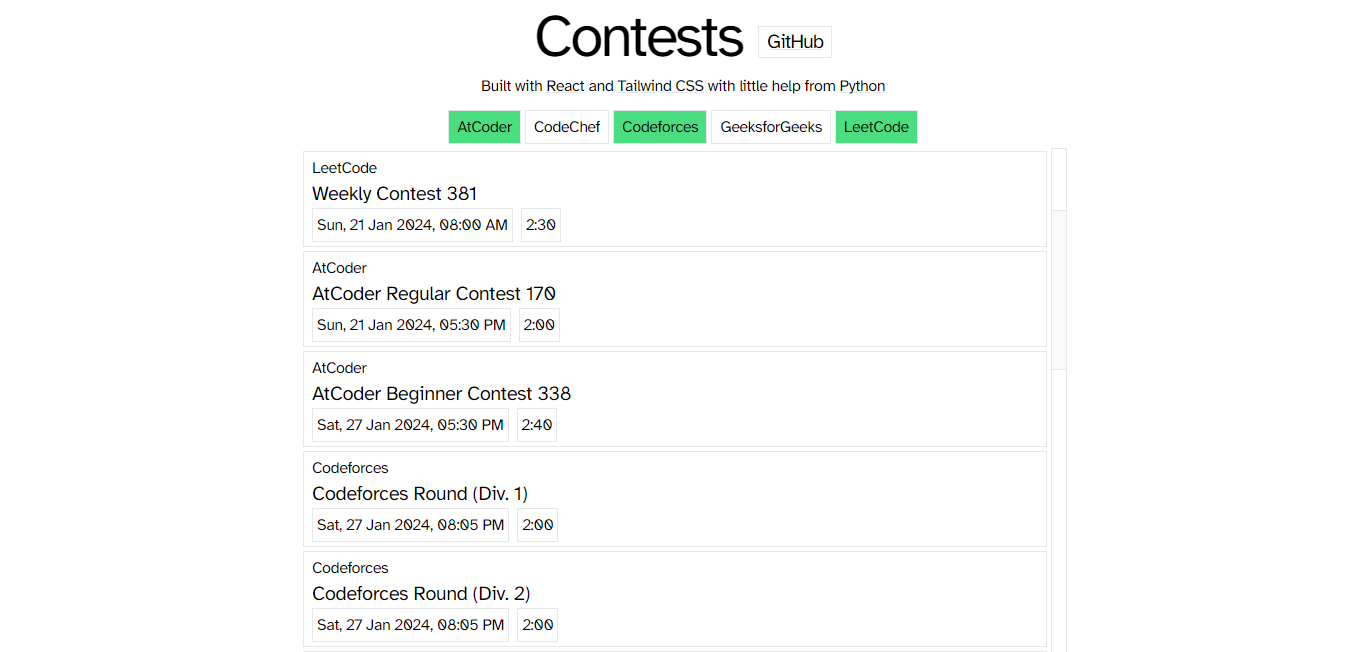
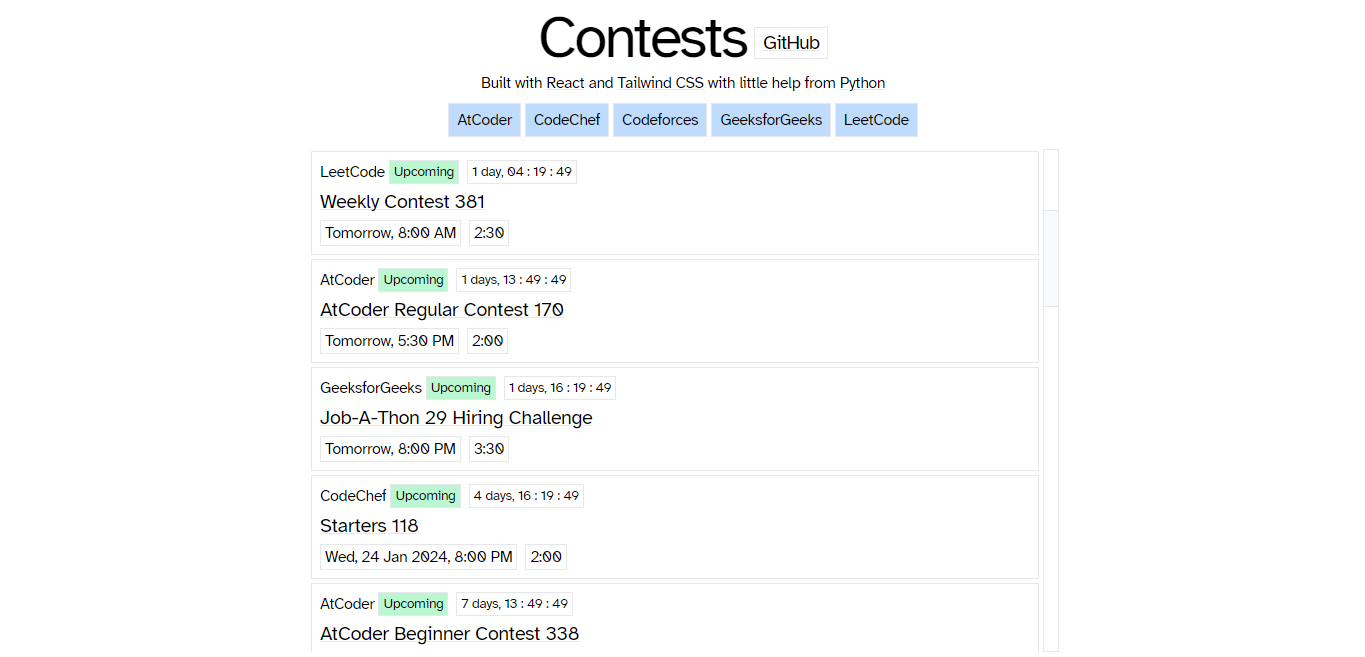
added status (upcoming/ongoing) and countdown timer, minor ui updates

diff --git a/app/src/App.jsx b/app/src/App.jsx
@@ -3,9 +3,18 @@ import { useEffect, useState } from 'react'
 
 function formatDate(isoFormatStr) {
   const date = new Date(isoFormatStr)
-  const options = {
-    hour12: true, weekday: "short", year: "numeric", month: "short", day: "numeric", hour: "2-digit", minute: "2-digit"
+  let options = {
+    hour12: true, hour: "numeric", minute: "2-digit"
   }
+  const today = new Date()
+  if (date.toDateString() === today.toDateString()) {
+    return `Today, ${date.toLocaleTimeString(navigator.language, options).replace('am', 'AM').replace('pm', 'PM')}`
+  }
+  const tomorrow = new Date(today.getFullYear(), today.getMonth(), today.getDate() + 1)
+  if (date.toDateString() === tomorrow.toDateString()) {
+    return `Tomorrow, ${date.toLocaleTimeString(navigator.language, options).replace('am', 'AM').replace('pm', 'PM')}`
+  }
+  options = { ...options, weekday: "short", year: "numeric", month: "short", day: "numeric" }
   return date.toLocaleString(navigator.language, options).replace('am', 'AM').replace('pm', 'PM')
 }
 
@@ -14,21 +23,64 @@ function formatDuration(durationSeconds) {
   return `${(minutes / 60).toFixed()}:${(minutes % 60).toString().padStart(2, "0")}`
 }
 
+function formatCountdown(countdownSeconds) {
+  const days = countdownSeconds / (3600 * 24) 
+  countdownSeconds = countdownSeconds % (3600 * 24)
+  const hours = countdownSeconds / 3600
+  countdownSeconds = countdownSeconds % 3600
+  const minutes = countdownSeconds / 60
+  const seconds = countdownSeconds % 60
+
+  return `${days >= 1 ? Math.floor(days) : ''}${days >= 1 ? days.toFixed() == 1 ? ' day, ' : ' days, ': ''}${Math.floor(hours).toString().padStart(2, '0')} : ${Math.floor(minutes).toString().padStart(2, '0')} : ${Math.floor(seconds).toString().padStart(2, '0')}`
+}
+
 function compareDates(first, second) {
   const firstDate = new Date(first)
   const secondDate = new Date(second)
-  console.log(firstDate, secondDate, firstDate - secondDate)
   return firstDate - secondDate
 }
 
 function Card({ platform, title, url, startTime, duration, isVisible }) {
+
+  const [countdownSeconds, setCountdownSeconds] = useState(0)
+  const [status, setStatus] = useState("Upcoming")
+
+  useEffect(() => {
+    const contestStartTime = new Date(startTime)
+    const now = new Date()
+    if (contestStartTime <= now) {
+      setStatus("Ongoing")
+      contestStartTime.setSeconds(contestStartTime.getSeconds() + duration)
+      setCountdownSeconds(((contestStartTime - now) / 1000).toFixed())
+    } else {
+      setCountdownSeconds(((contestStartTime - now) / 1000).toFixed())
+    }
+    const countdownTimer = setInterval(() => {
+      const contestStartTime = new Date(startTime)
+      const now = new Date()
+      if (contestStartTime <= now) {
+        setStatus("Ongoing")
+      } else {
+        setStatus("Upcoming")
+      }
+      setCountdownSeconds(prevCountdownSeconds => prevCountdownSeconds - 1)
+    }, 1000)
+    return () => clearInterval(countdownTimer)
+  }, [])
+  
   return (
-    <div className={`${isVisible ? 'flex' : 'hidden'} flex-col border px-2 py-1 w-full hover:border-gray-950`}>
-      <div>{platform}</div>
-      <div className="text-xl text-wrap"><a href={url}>{title}</a></div>
-      <div className="flex gap-2">
-        <div className="border p-1">{formatDate(startTime)}</div>
-        <div className="border p-1">{formatDuration(duration)}</div>
+    <div className={`${isVisible ? 'flex' : 'hidden'} flex-col border p-2 gap-1 w-full hover:border-gray-950`}>
+      <div className="flex gap-1 flex-wrap">
+        <div>{platform}</div>
+        <div className="flex gap-2">
+          <div className={`inline-flex items-center text-sm border px-1 ${status == "Upcoming" ? "bg-green-200" : "bg-red-300"}`}>{status}</div>
+          <div className="inline-flex items-center text-sm border px-1">{formatCountdown(countdownSeconds)}</div>
+        </div>
+      </div>
+      <div className="text-xl text-wrap underline decoration-1 decoration-gray-200 hover:decoration-gray-950"><a href={url}>{title}</a></div>
+      <div className="flex gap-2 flex-wrap">
+        <div className="border px-1">{formatDate(startTime)}</div>
+        <div className="border px-1">{formatDuration(duration)}</div>
       </div>
     </div>
   )
@@ -56,25 +108,28 @@ function App() {
   }, [])
 
   return (
-    <div className="tracking-tight font-['Atkinson_Hyperlegible'] flex flex-col items-center h-screen">
-      <div className="flex p-2 items-end gap-4">
+    <div className="tracking-tight font-['Atkinson_Hyperlegible'] flex flex-col items-center h-screen px-1 py-2">
+      <div className="flex px-2 items-end justify-center flex-wrap gap-2">
         <div className="text-6xl tracking-tighter">Contests</div>
         <div className="border p-2 mb-2 h-8 inline-flex items-center text-xl tracking-tighter decoration-1 decoration-gray-200 underline hover:decoration-gray-950 hover:border-gray-950">
           <a href="https://github.com/er-knight/contests">GitHub</a>
         </div>
       </div>
-      <div className="p-2 pt-0 text-center">Built with 
-        <a href="https://github.com/er-knight/contests/tree/main/app/src/App.jsx" className="pl-1 decoration-1 decoration-gray-200 underline hover:decoration-gray-950">React</a> and 
-        <a href="https://github.com/er-knight/contests/tree/main/app/src/App.jsx" className="pl-1 decoration-1 decoration-gray-200 underline hover:decoration-gray-950">Tailwind CSS</a> with little help from 
-        <a href="https://github.com/er-knight/contests/blob/main/update-contests.py" className="pl-1 decoration-1 decoration-gray-200 underline hover:decoration-gray-950">Python</a>
+      <div className="p-1 text-center">
+        <span>Built with </span>
+        <a href="https://github.com/er-knight/contests/tree/main/app/src/App.jsx" className="decoration-1 decoration-gray-200 underline hover:decoration-gray-950">React</a>
+        <span> and </span>
+        <a href="https://github.com/er-knight/contests/tree/main/app/src/App.jsx" className="decoration-1 decoration-gray-200 underline hover:decoration-gray-950">Tailwind CSS</a>
+        <span> with little help from </span>
+        <a href="https://github.com/er-knight/contestsdb" className="decoration-1 decoration-gray-200 underline hover:decoration-gray-950">Python</a>
       </div>
-      <div className="flex flex-wrap w-full items-center justify-center p-1 gap-1">
+      <div className="flex flex-wrap w-full items-center justify-center p-1 mb-2 gap-1">
         {
           platforms.map(platform => (
             <div
               key={platform.toLowerCase()}
               className={`border px-2 py-1 hover:cursor-pointer hover:border-gray-950 ${selectedPlatforms[platform]
-                ? 'bg-green-400'
+                ? 'bg-blue-200'
                 : 'bg-white'
                 }`}
               onClick={() => setSelectedPlatforms({
@@ -84,7 +139,7 @@ function App() {
           ))
         }
       </div>
-      <div className="grow overflow-auto flex flex-col w-fit mx-auto p-1 gap-1 md:w-[768px]">
+      <div className="grow overflow-auto flex flex-col w-fit  px-1 gap-1 md:w-[752px]">
         {
           [].concat(contests).sort(
             (a, b) => compareDates(a.start_time, b.start_time)

diff --git a/app/src/index.css b/app/src/index.css
@@ -3,7 +3,7 @@
 @tailwind utilities;
 
 ::-webkit-scrollbar {
-    width: 1rem;
+    width: 0.5rem;
 }
 
 ::-webkit-scrollbar-track {
@@ -13,4 +13,10 @@
 ::-webkit-scrollbar-thumb {
     background: #f9fafb;
     border: 1px solid #e5e7eb;
+}
+
+@media screen and (min-width: 768px) {
+    ::-webkit-scrollbar {
+        width: 1rem;
+    }
 }
